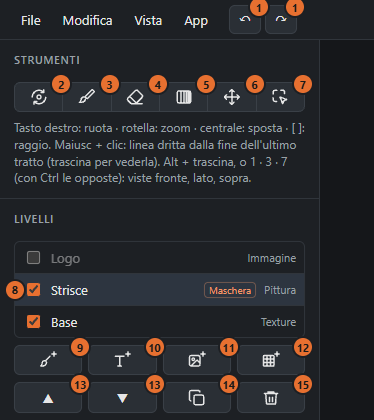
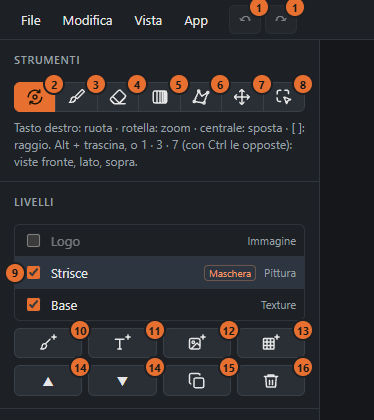
Docs for 0.8.0

diff --git a/CHANGELOG.it.md b/CHANGELOG.it.md
@@ -1,5 +1,27 @@
 # Novità
 
+## [0.8.0] - 2026-11-23
+
+Disegna forme con punti e curve e riempile di colore o di motivi, e crea maschere con un percorso o un colore.
+
+### Novità
+- Strumento **Forma** (S): clic per i punti d'angolo, clic e trascina per i punti curvi, clic sul primo punto per
+  chiudere. Ogni forma è un livello a sé che resta modificabile: trascinane punti e maniglie, cambiane **Colore** e
+  **Riempimento** quando vuoi. **Riempimento**: **Pieno**, **Retino a puntini** (passo, grandezza dei puntini, una
+  **Sfumatura** verso una **Direzione**), **Carbonio**, **Gesso** o **Spruzzo**. **Vista della forma** rimette la
+  vista da cui è stata disegnata.
+- Strumento **Parti**, due modi nuovi: **Penna** (disegna un percorso chiuso sull'auto, poi **Mostra dentro** o
+  **Nascondi dentro**) e **Colore** (clic su un colore dell'auto: il livello si vede dove i livelli sotto hanno quel
+  colore, con una **Tolleranza**).
+- Nuovo pennello **Retino a puntini**, e la punta **Retino**: puntini su una griglia a 45°, più piccoli dove il
+  pennello è più morbido.
+
+### Modifiche
+- Con **Anche sull'altro lato (simmetria)**, un'immagine sull'altro lato dell'auto ora è speculare, come l'auto; le
+  scritte restano leggibili. La nuova opzione **Sull'altro lato leggibile (non speculare)** sceglie, per ogni
+  immagine o testo.
+- I pennelli a timbro con **Simmetria sinistra/destra** dipingono anche loro un'immagine speculare sull'altro lato.
+
 ## [0.7.1] - 2026-10-25
 
 Condividi in un passo la livrea che stai dipingendo, e chiudi l'app dal menu File.

diff --git a/CHANGELOG.md b/CHANGELOG.md
@@ -1,5 +1,24 @@
 # Changelog
 
+## [0.8.0] - 2026-11-23
+
+Draw shapes with points and curves and fill them with colour or patterns, and make masks with a path or a colour.
+
+### New
+- **Shape** tool (S): click for corner points, click and drag for curved points, click the first point to close.
+  Every shape is a layer of its own that stays editable: drag its points and handles, change **Colour** and **Fill**
+  at any time. **Fill**: **Solid**, **Halftone dots** (spacing, dot size, a **Fade** towards a **Direction**),
+  **Carbon**, **Chalk** or **Spray**. **Shape's view** puts back the view it was drawn from.
+- **Parts** tool, two new modes: **Pen** (draw a closed path on the car, then **Show inside** or **Hide inside**) and
+  **Colour** (click a colour on the car: the layer shows where the layers under it have that colour, with a
+  **Tolerance**).
+- New brush **Halftone dots**, and the **Halftone** tip: dots on a 45° grid, smaller where the brush is softer.
+
+### Changed
+- With **On the other side too (symmetry)**, an image on the other side of the car is now its mirror image, as the
+  car is; text stays readable. The new **Readable on the other side (not mirrored)** chooses, for each image or text.
+- Stamp brushes with **Left/right symmetry** paint a mirror image on the other side too.
+
 ## [0.7.1] - 2026-10-25
 
 Share the livery you are painting in one step, and close the app from the File menu.

diff --git a/README.md b/README.md
@@ -11,9 +11,12 @@ The full guide is in the **[wiki](https://github.com/agastal/AceLiveryTool-Relea
 
 - Every car of the game (71), with its UV layout as a guide.
 - Layers with masks, blend modes and their own roughness, metallic and clear coat.
-- Parts: a click limits a layer to the hood, a door, a bumper (and the matching part on the other side).
-- Brushes that work in 3D (no seams between panels): eleven ready-made ones (round, spray, chalk, carbon
-  fibre, bristles, marker, nib, stamps…), left/right symmetry, pen pressure on a drawing tablet.
+- Parts: a click limits a layer to the hood, a door, a bumper (and the matching part on the other side); or a
+  path you draw, or a colour already painted.
+- Shapes drawn with points and curves, each an editable layer, filled with colour, halftone dots, carbon, chalk or
+  spray.
+- Brushes that work in 3D (no seams between panels): twelve ready-made ones (round, spray, chalk, carbon
+  fibre, halftone dots, bristles, marker, nib, stamps…), left/right symmetry, pen pressure on a drawing tablet.
 - Images (PNG, JPG, SVG) and text projected on the car, mirrored to the other side if you want.
 - Undo/redo, project files (`.acelivery`); front, side and top views as in Blender (1, 3, 7 or Alt + drag).
 - In Italian, English, French, German and Spanish.

diff --git a/README.it.md b/README.it.md
@@ -12,9 +12,11 @@ La guida completa è nella **[wiki](https://github.com/agastal/AceLiveryTool-Rel
 - Tutte le auto del gioco (71), con il loro layout UV come guida.
 - Livelli con maschere, modi di fusione e rugosità, metallo e clear coat propri.
 - Parti: un clic limita un livello al cofano, a una portiera, a un paraurti (e alla parte corrispondente
-  dall'altro lato).
-- Pennelli che lavorano in 3D (nessuna cucitura tra i pannelli): undici pronti (tondo, spruzzo, gesso, fibra di
-  carbonio, setole, pennarello, pennino, timbri…), simmetria sinistra/destra, pressione della penna su una tavoletta grafica.
+  dall'altro lato); oppure un percorso che disegni, o un colore già dipinto.
+- Forme disegnate con punti e curve, ognuna un livello modificabile, riempite di colore, retino a puntini, carbonio,
+  gesso o spruzzo.
+- Pennelli che lavorano in 3D (nessuna cucitura tra i pannelli): dodici pronti (tondo, spruzzo, gesso, fibra di
+  carbonio, retino a puntini, setole, pennarello, pennino, timbri…), simmetria sinistra/destra, pressione della penna su una tavoletta grafica.
 - Immagini (PNG, JPG, SVG) e testi proiettati sull'auto, anche specchiati sull'altro lato.
 - Annulla/ripeti, file di progetto (`.acelivery`); viste di fronte, lato e sopra come in Blender (1, 3, 7 o
   Alt + trascina).
